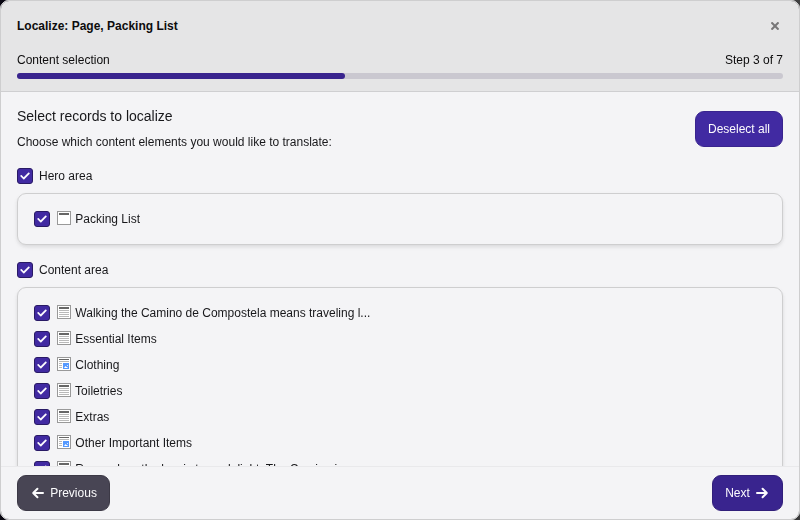
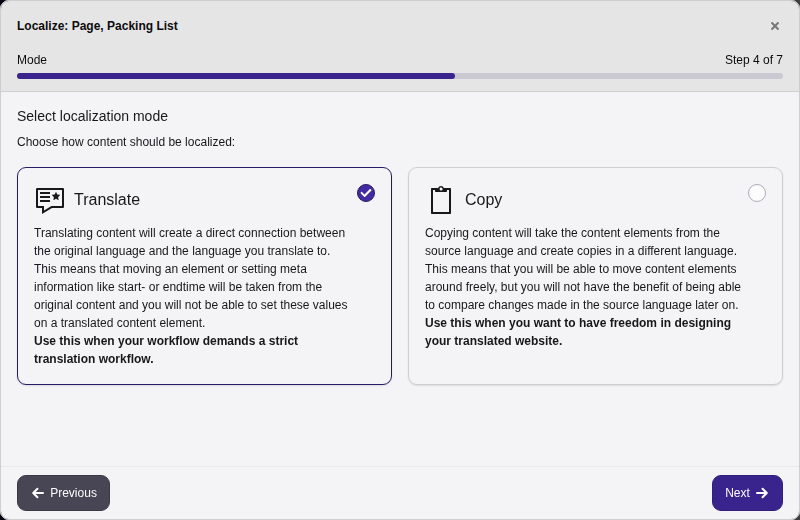
[TASK] Describe the steps of the translation wizard (#429)
* [TASK] Describe the steps of the translation wizard

The page said that the wizard asks for the translation mode of each
content element and ends with a summary. In TYPO3 v14, the wizard asks
for the mode once, for all selected elements, and shows the summary
before it translates. It offers only the mode that the content of the
page already uses in that language.

Resolves: https://github.com/TYPO3-Documentation/Changelog-To-Doc/issues/1454
Releases: main, 14.3
Assisted-by: Claude Opus 5.5 <noreply@anthropic.com>

* [TASK] Show the mode step of the translation wizard

The screenshot of the translation wizard was meant to show the step
that asks for the translation mode, but it showed the content
selection. The page "Packing List" has an Arabic translation, so the
wizard stops at the source language as well, and one click on "Next"
did not reach the mode. The script now clicks "Next" until the mode
shows.

TYPO3 v15 removed setBeUserByName(), which stopped every screenshot
run while it created the records. The records are now created as
j.doe found by their uid.

References: https://github.com/TYPO3-Documentation/Changelog-To-Doc/issues/1454
Releases: main, 14.3
Assisted-by: Claude Opus 5.5 <noreply@anthropic.com>

---------

diff --git a/Build/Screenshots/create-records.php b/Build/Screenshots/create-records.php
@@ -163,7 +163,7 @@ $connectionPool->getConnectionForTable('sys_history')->truncate('sys_history');
 
 // The changes are made by the administrator who logs in for the
 // screenshots, so the history shows their name instead of "_cli_"
-$GLOBALS['BE_USER']->setBeUserByName('j.doe');
+$GLOBALS['BE_USER']->setBeUserByUid($find('be_users', 'username', 'j.doe'));
 
 // The hidden content element of the hiding example
 $process(['tt_content' => [$uids['extras'] => ['hidden' => 1]]]);

diff --git a/Documentation/Languages/Index.rst b/Documentation/Languages/Index.rst
@@ -39,6 +39,9 @@ When you translate content, there are two modes: a
 :ref:`connected <languages-translation-mode-connected>` mode and an
 :ref:`independent <languages-translation-mode-copy>` mode.
 
+A page uses one mode per language. Once a page has content in a language,
+the translation wizard offers only the mode that this content uses.
+
 ..  _languages-translation-mode-connected:
 
 Translate (connected)
@@ -90,12 +93,14 @@ Create the page translation
         :alt: Creating a translation of a page
         :zoom: gallery
 
-#.  Click through the translation wizard, choosing a translation mode of
-    :guilabel:`Translate` or :guilabel:`Copy`
-    (see :ref:`Translation strategies <translation-modes>`) for each content
-    element on the page until you see :guilabel:`Localization completed`. The
-    last screen of the wizard shows a summary of what will be translated.
-    Click on the :guilabel:`Finish` button.
+#.  In the translation wizard, select the content elements that you want to
+    translate. Then choose the translation mode :guilabel:`Translate` or
+    :guilabel:`Copy` for all of them
+    (see :ref:`Translation strategies <translation-modes>`). The wizard skips
+    a step when there is nothing to choose, for example the source language
+    when only one language can be the source. Check the summary of your
+    choices and click :guilabel:`Localize`. When the wizard shows
+    **Localization completed**, click :guilabel:`Finish`.
 
     ..  figure:: /Images/GeneratedScreenshots/Language/LanguagesTranslateContentElements.png
         :alt: The translation wizard
